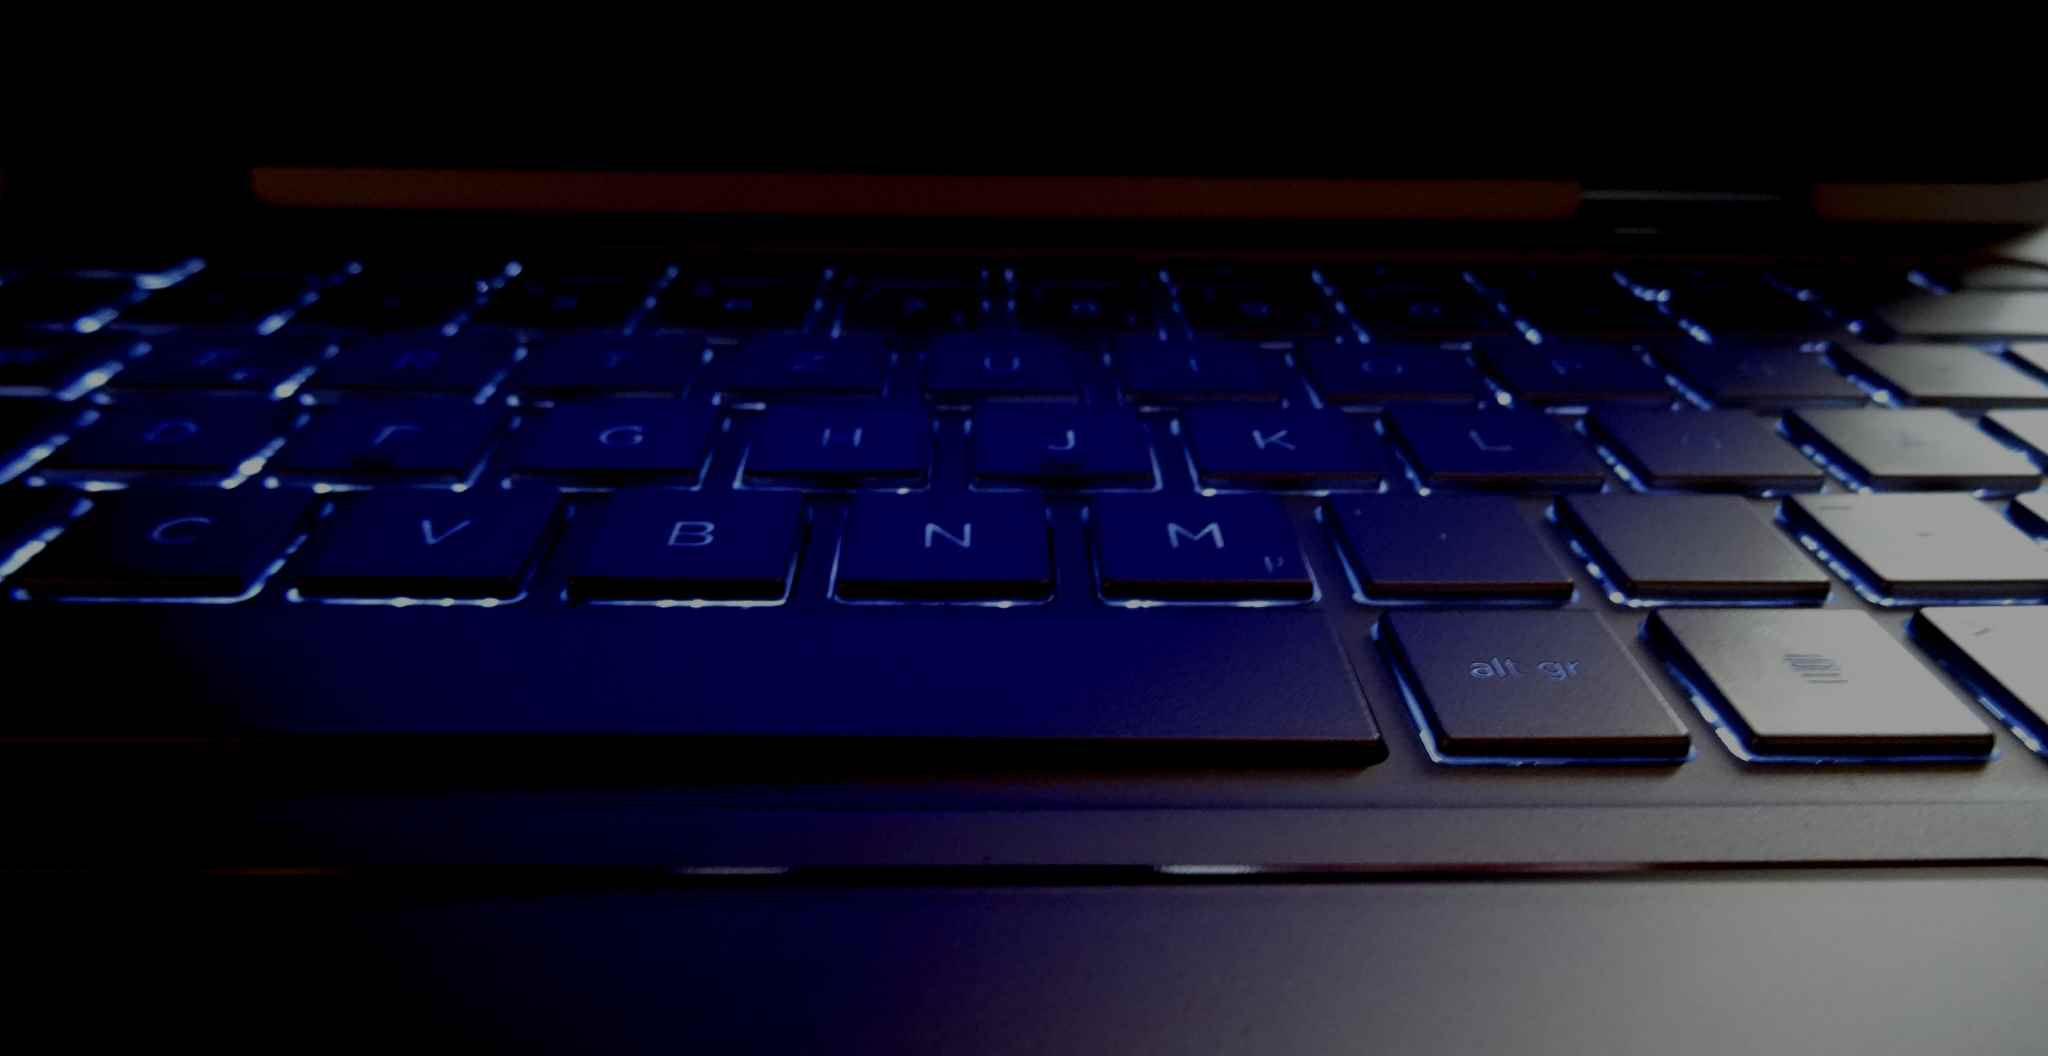
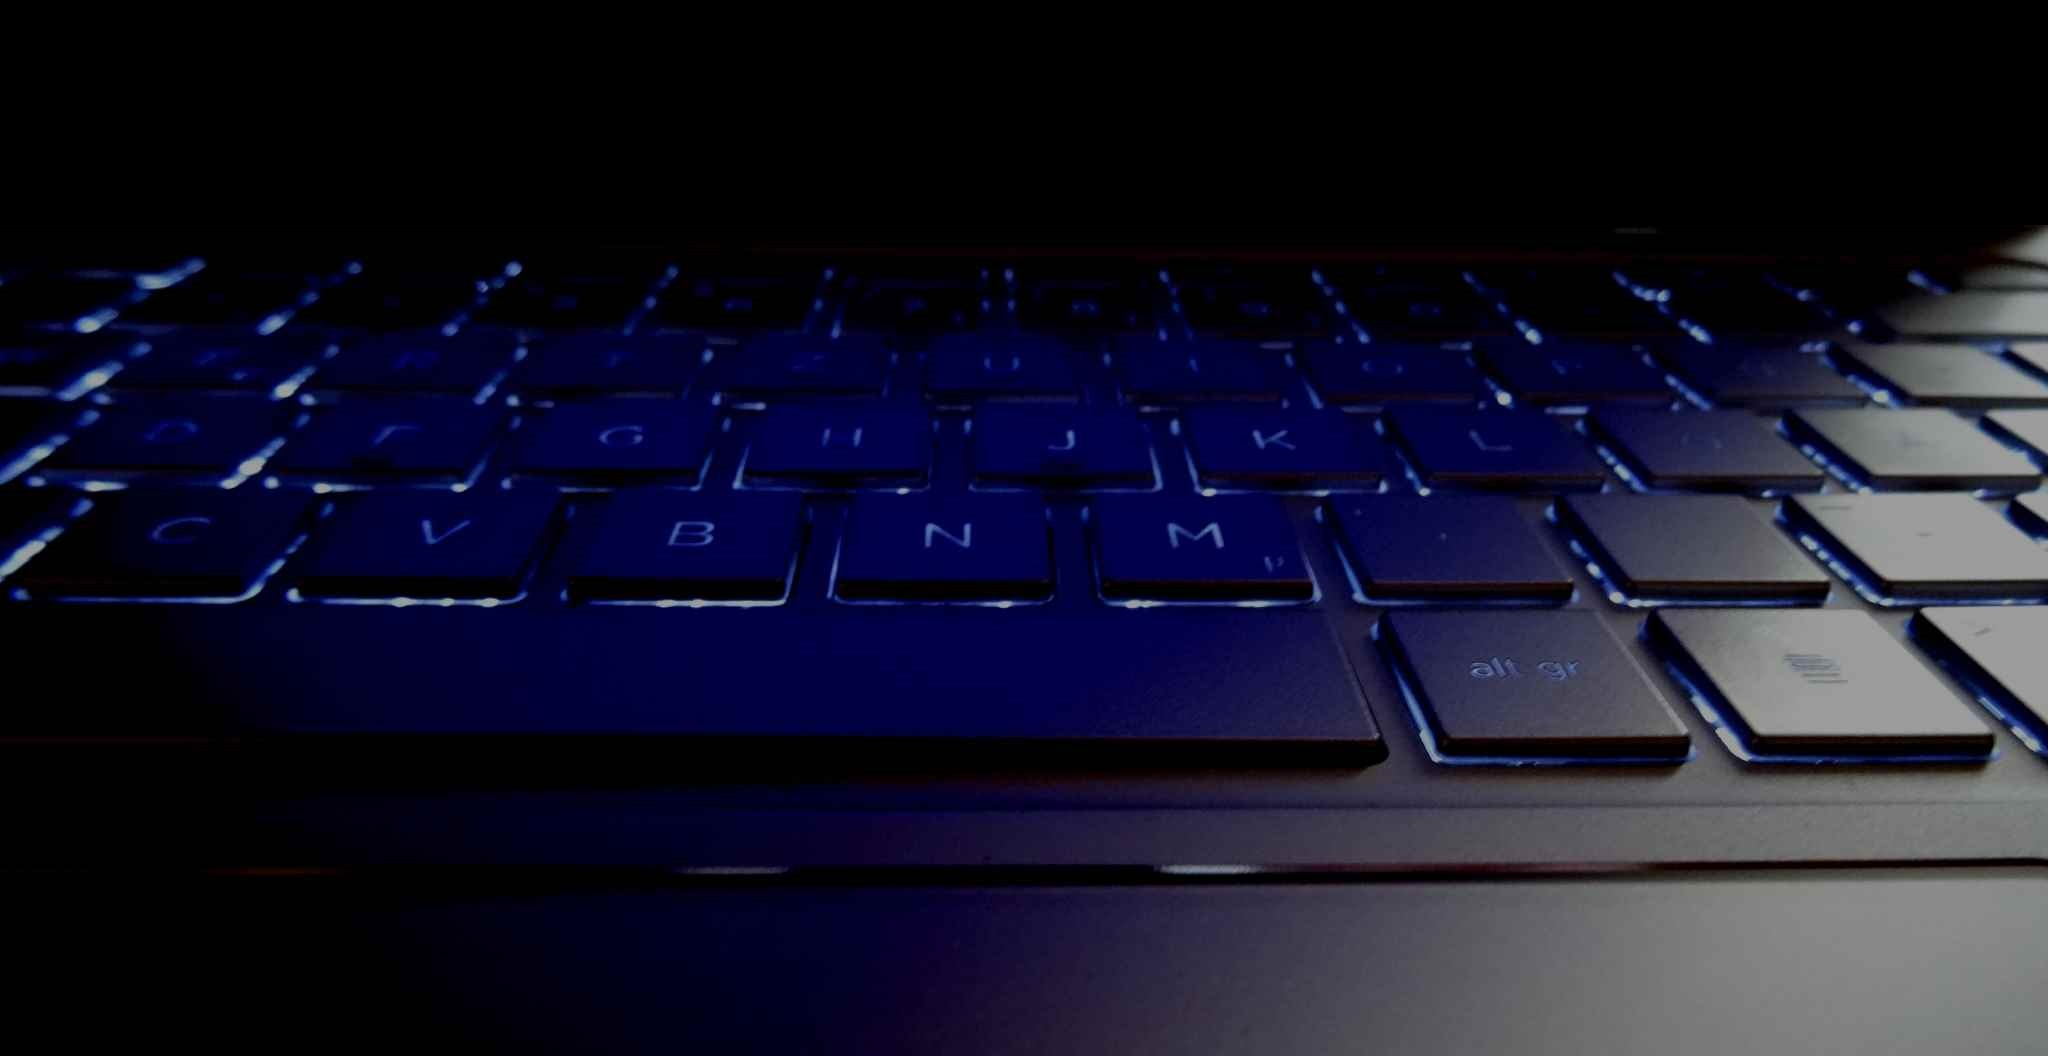
partly removed z-depth-5, updated materialize to version 1.0.0 a3, updated header image

Changed region(s): [[0.125, 0.1562, 0.8125, 0.2188], [0.875, 0.1562, 1.0, 0.2188]]

diff --git a/index.html b/index.html
@@ -41,7 +41,7 @@
     <title>evil.baschdi</title>
     <!-- CSS -->
     <!-- alpha -->
-    <link rel="stylesheet" href="https://cdnjs.cloudflare.com/ajax/libs/materialize/1.0.0-alpha.2/css/materialize.min.css" />
+    <link rel="stylesheet" href="https://cdnjs.cloudflare.com/ajax/libs/materialize/1.0.0-alpha.3/css/materialize.min.css" />
     <!-- working -->
     <!-- <link rel="stylesheet" href="https://cdnjs.cloudflare.com/ajax/libs/materialize/0.100.2/css/materialize.min.css" /> -->
     <!--Import Google Icon Font-->
@@ -67,7 +67,7 @@
 </head>
 
 <body>
-    <div class="grey-text text-lighten-2 z-depth-5">
+    <div class="grey-text text-lighten-2">
         <nav class="grey black" role="navigation">
             <div class="nav-wrapper container">
                 <!--<a id="logo-container" class="brand-logo">
@@ -89,7 +89,7 @@
             </div>
         </nav>
     </div>
-    <div id="index-banner" class="parallax-container z-depth-5">
+    <div id="index-banner" class="parallax-container">
         <div class="section no-pad-bot">
             <div class="container">
                 <br>
@@ -129,7 +129,7 @@
         </div>
     </div>
     <!-- Icon Section -->
-    <div class="grey darken-4 grey-text text-lighten-2 z-depth-5">
+    <div class="grey darken-4 grey-text text-lighten-2">
         <div class="container">
             <div class="section">
                 <div class="row">
@@ -187,7 +187,7 @@
         </div>
     </div>
 
-    <div class="parallax-container valign-wrapper z-depth-5">
+    <div class="parallax-container valign-wrapper">
         <div class="section no-pad-bot">
             <div class="container">
                 <div class="row center">
@@ -200,7 +200,7 @@
         </div>
     </div>
     <!-- Project Section -->
-    <div class="grey darken-4 grey-text text-lighten-2 z-depth-5">
+    <div class="grey darken-4 grey-text text-lighten-2">
         <div class="container">
             <div class="section">
                 <div class="row">
@@ -228,13 +228,13 @@
         </div>
     </div>
 
-    <div class="parallax-container valign-wrapper z-depth-5">
+    <div class="parallax-container valign-wrapper">
         <div class="parallax black">
             <img src="img/early.jpg" alt="">
         </div>
     </div>
     <!-- Haftung Section -->
-    <div class="grey darken-4 grey-text text-lighten-2 z-depth-5">
+    <div class="grey darken-4 grey-text text-lighten-2">
         <div class="container">
             <div class="section">
                 <div class="row">
@@ -305,7 +305,7 @@
     <script type="text/javascript" src="//s7.addthis.com/js/300/addthis_widget.js#pubid=ra-582c1b3922055cd9"></script>
     <script src="https://code.jquery.com/jquery-3.2.1.min.js"></script>
     <!-- next -->
-    <script src="https://cdnjs.cloudflare.com/ajax/libs/materialize/1.0.0-alpha.2/js/materialize.min.js"></script>
+    <script src="https://cdnjs.cloudflare.com/ajax/libs/materialize/1.0.0-alpha.3/js/materialize.min.js"></script>
     <!-- working -->
     <!-- <script src="https://cdnjs.cloudflare.com/ajax/libs/materialize/0.100.2/js/materialize.min.js"></script> -->
     <script src="js/changeHeadline.js"></script>
